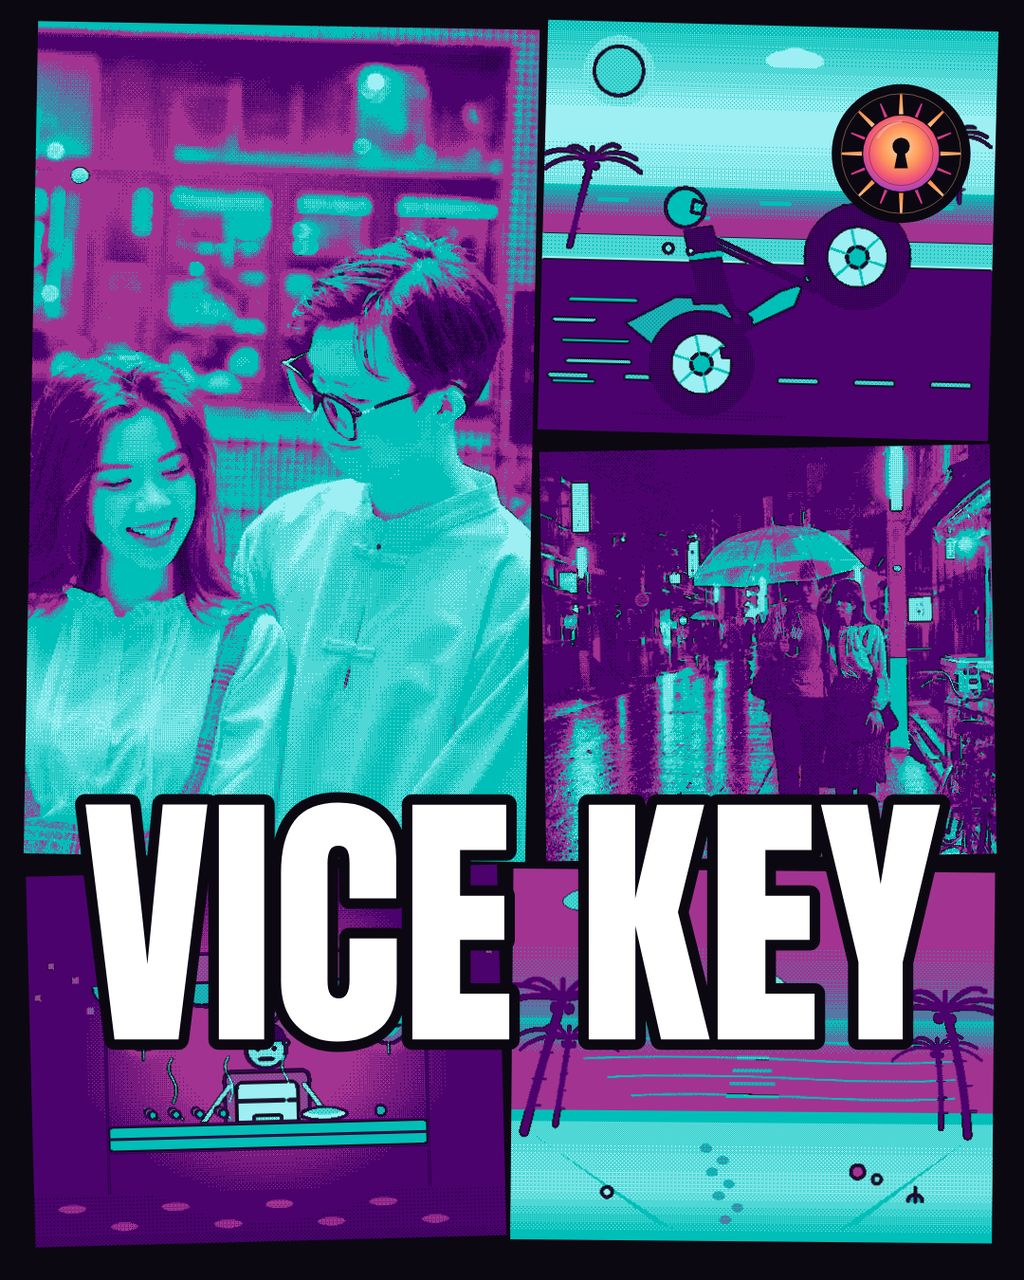
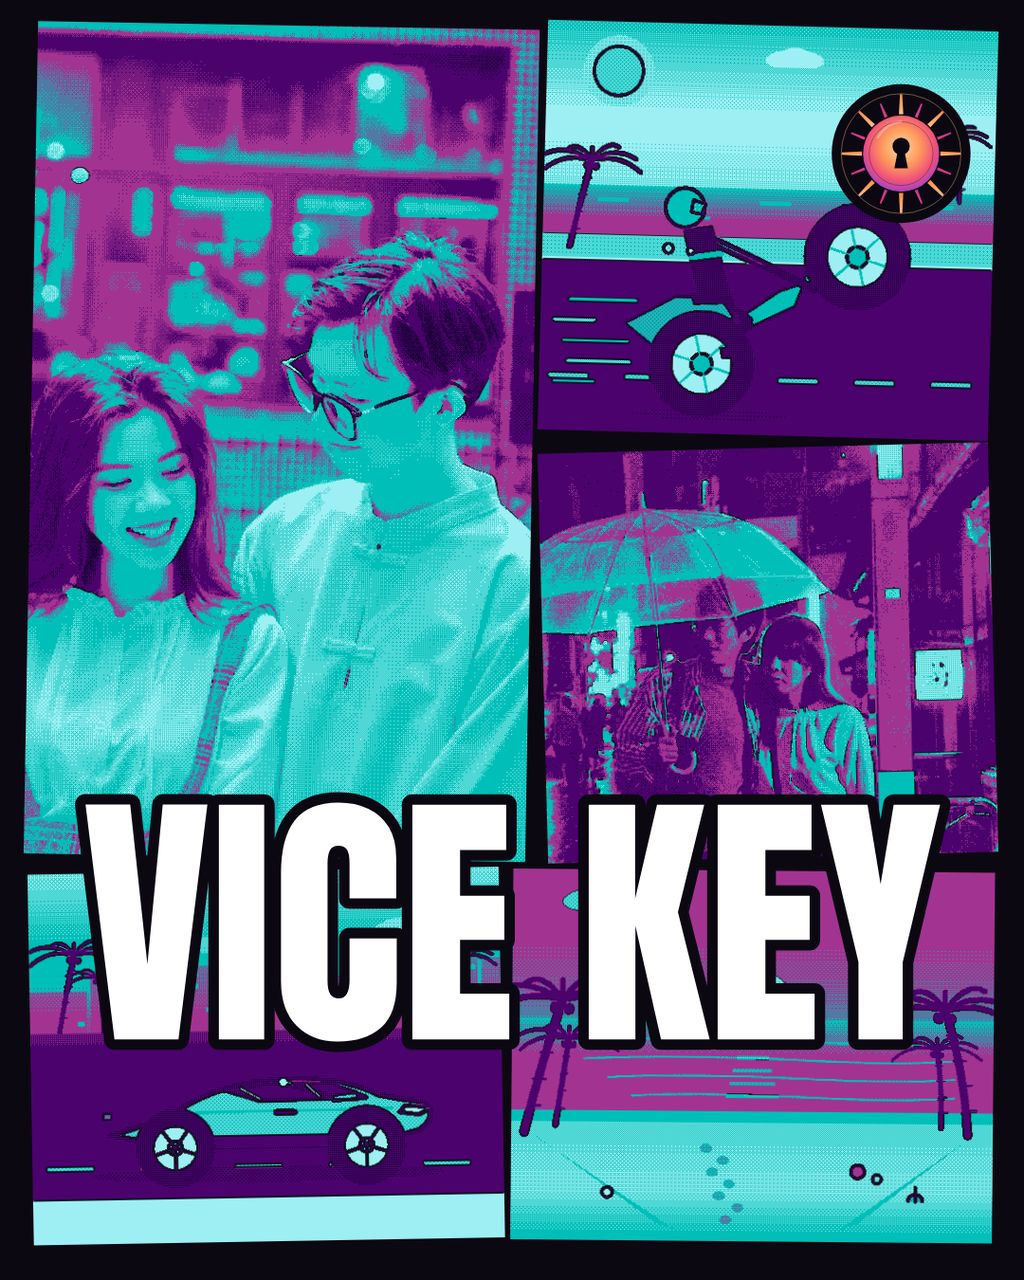
VICE KEY round 3 fix: Red Team conditions 1-3
- Kyoto vignette (shot 3): zoom 1.0 -> 2.0, anchor (0.65,0.50) -> (0.65,0.42)
  — face centres grid-measured on the photo itself (man ~(0.60,0.42),
  woman ~(0.70,0.43)); faces now ~70-90 px in the 432 px panel, ~2x the
  old 36-43 px. Vignette moves H -> F with the grid swap (same rect).
- Grid 4:5 + 1:1: F/H swapped — yatai (figure) now mid-right above the
  title band; bottom row is figure-free (car demo + beach). 16:9 grid
  deliberately not swapped (F already below the band there).
- Title geometry untouched: measured from new PNG, width 83.24%,
  caps y 62.7-81.3% (verified 83.2% / 62.7-81.2%). Hero crop untouched
  (Baozi sign still excluded); shots 1/2/4 byte-identical.
- Shot 3 re-captured via CDP (VICEKEY_SHOT_READY): 1024x1280, 252,156 B
  at q80 — under the 262,144 B cap, no quality cut needed.
- Validation: main.ts exit 0, dossier 1,161,532 bytes (< 4 MiB),
  0 dotfiles in output. README updated (Kyoto faces no longer small);
  honest demo-input note kept.

diff --git a/app/src/shots.js b/app/src/shots.js
@@ -79,20 +79,22 @@ async function shot3(emblemImg) {
   // 5-panel grid, Neon Nights, multi-photo: couple-neon.jpg in the hero
   // (same couple as shot 2, new layout + new grade) + couple-kyoto.jpg
   // (rainy Kyoto night, photographer Michael Dupuis, Pexels License —
-  // genuinely Japan, faces small) as a vignette in the car panel (H).
-  // Grid hero ratio is 0.603, so at zoom 1.5 the cover crop is 965x1600 px
-  // with its top edge at y=800/2400 (33%) — the "Baozi" sign is fully
-  // above the crop again; both faces stay in frame, woman's chin ~62%
-  // of the panel (cover y ~43%, clear of the title band).
-  // Kyoto vignette: panel H ratio is 1.10 (landscape), so the crop is the
-  // full 1600 px wide x 1455 px tall; anchor (0.65, 0.50) centres the
-  // couple under the umbrella (faces ~y 37-40% of the panel).
+  // genuinely Japan) as a vignette in the yatai panel (F, mid-right).
+  // Kyoto vignette, round-3 Red Team fix: the old anchor (0.65, 0.50) sat
+  // 0.08 too low (faces are at y ~0.42, not 0.50) and zoom 1.0 left the
+  // faces ~36-43 px tall in the 432 px panel — unreadable blobs. Face
+  // centres measured from a 10% grid overlay on the photo itself
+  // (1600x2400): man ~(0.60, 0.42), woman ~(0.70, 0.43), centroid
+  // (0.65, 0.42). Zoom 2.0 -> cover crop 800x727 px; faces render
+  // ~71-86 px tall in the panel, ~2x the old size. The vignette panel
+  // moved H -> F with the grid F/H swap (same rect, x 53-97 / y 35-67),
+  // so the crop math is unchanged and the couple stays above the title.
   const neon = await loadPhoto('samples/couple-neon.jpg');
   const kyoto = await loadPhoto('samples/couple-kyoto.jpg');
   const canvas = makeCanvas('4:5', false);
   const assignments = new Map([
     ['E', { photo: neon, zoom: 1.5, anchor: { x: 0.56, y: 0.75 } }],
-    ['H', { photo: kyoto, zoom: 1, anchor: { x: 0.65, y: 0.5 } }],
+    ['F', { photo: kyoto, zoom: 2.0, anchor: { x: 0.65, y: 0.42 } }],
   ]);
   await renderCover(canvas, {
     layout: 'grid',

diff --git a/app/src/cover.js b/app/src/cover.js
@@ -81,21 +81,31 @@ export const LAYOUTS = {
       '4:5': {
         E: p(3, 2, 52, 67, 'hero', 1),
         B: p(53, 2, 97, 34, 'bike', 1.5),
-        H: p(53, 35, 97, 67, 'car', -1),
-        F: p(3, 68, 49, 97, 'yatai', -1.5),
+        // F/H SWAPPED (round-3 Red Team fix, 20 Nov): the yatai vendor is a
+        // FIGURE panel — it must not sit in the bottom row, where the title
+        // band (caps y 62.7-81.2%) decapitates it (only head + counter were
+        // visible). Yatai now sits mid-right, above the title band; the
+        // bottom row holds only figure-free panels (car demo + beach),
+        // which the title may overlap as in the Key Art layout.
+        F: p(53, 35, 97, 67, 'yatai', -1.5),
+        H: p(3, 68, 49, 97, 'car', -1),
         I: p(50, 68, 97, 97, 'beach', 0.5),
       },
       '1:1': {
         E: p(3, 2, 50, 67, 'hero', 1),
         B: p(51, 2, 97, 34, 'bike', 1.5),
-        H: p(51, 35, 97, 67, 'car', -1),
-        F: p(3, 68, 49, 97, 'yatai', -1.5),
+        // Same F/H swap as 4:5 (identical panel geometry).
+        F: p(51, 35, 97, 67, 'yatai', -1.5),
+        H: p(3, 68, 49, 97, 'car', -1),
         I: p(50, 68, 97, 97, 'beach', 0.5),
       },
       '16:9': {
         E: p(3, 2, 46, 97, 'hero', 1),
         B: p(47, 2, 97, 48, 'bike', 1.5),
         H: p(47, 49, 97, 82, 'car', -1),
+        // NOT swapped here: F already sits below the title band
+        // (y 83-97 vs band y 62-78), so the vendor is never decapitated;
+        // swapping would put the figure panel INTO the band.
         F: p(47, 83, 72, 97, 'yatai', -1.5),
         I: p(73, 83, 97, 97, 'beach', 0.5),
       },

diff --git a/README.md b/README.md
@@ -23,10 +23,10 @@ Round 3 (20 Nov 2026): the hero is now a real couple photo — a free-stock
 couple photo under the Pexels License (`app/samples/couple-neon.jpg`,
 photographer Toàn Văn) with a crop that excludes the "Baozi" neon sign, and
 a rainy-Kyoto couple photo (`app/samples/couple-kyoto.jpg`, photographer
-Michael Dupuis) as a vignette in the 5-panel grid shot. Honest note: the
-neon couple is Vietnamese, not the Japanese couple from the brief, and the
-Kyoto couple's faces are small in frame — both are demo input to the app,
-not a claim that the brief's couple was photographed. No free-stock photo
+Michael Dupuis) as a vignette in the 5-panel grid shot — zoomed 2.0× onto
+the couple under the umbrella so both faces read at small size. Honest note: the
+neon couple is Vietnamese, not the Japanese couple from the brief — both are
+demo input to the app, not a claim that the brief's couple was photographed. No free-stock photo
 matching the full brief (young Japanese couple, big faces, sunset) exists;
 the procedural demo-art hero remains the fallback.
 
